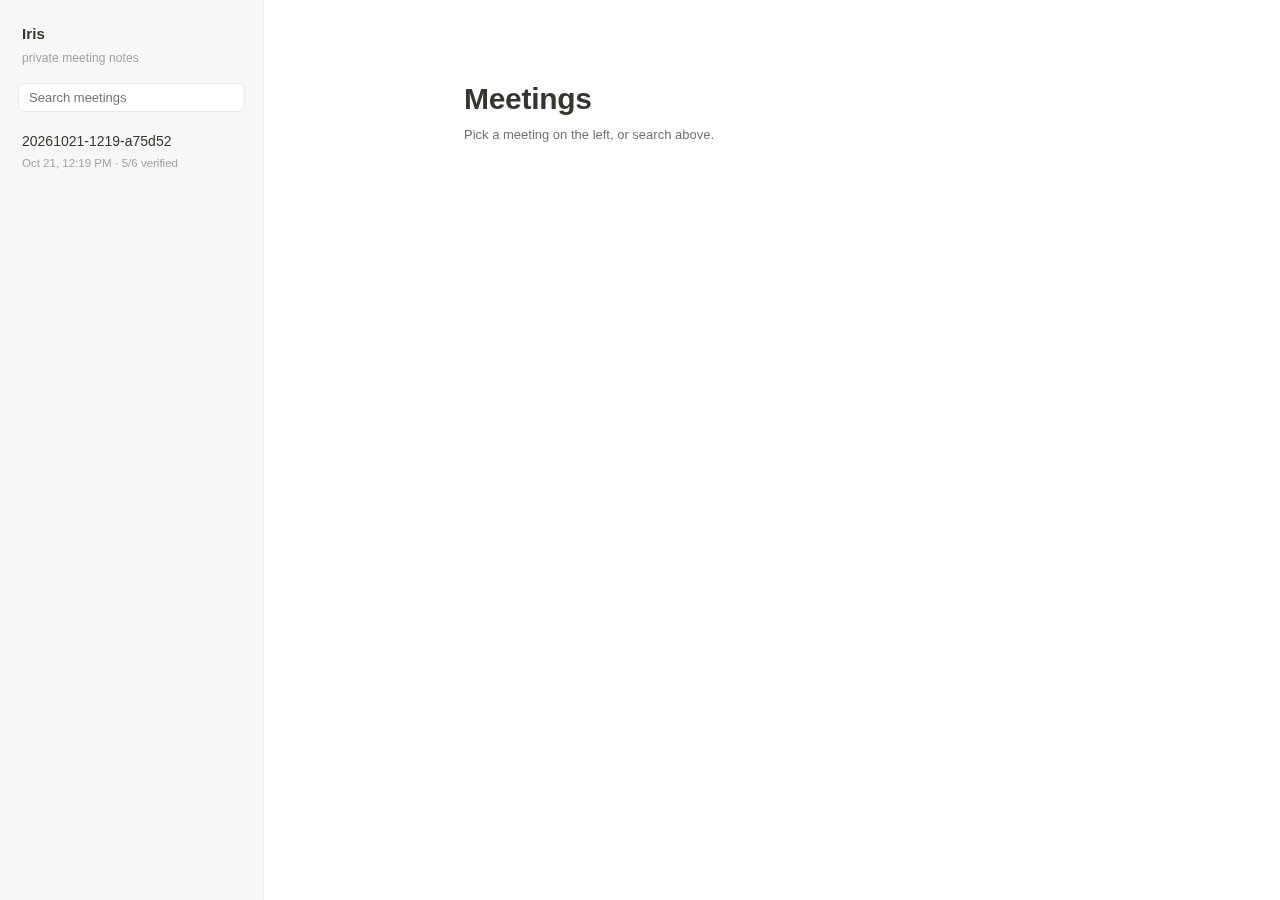
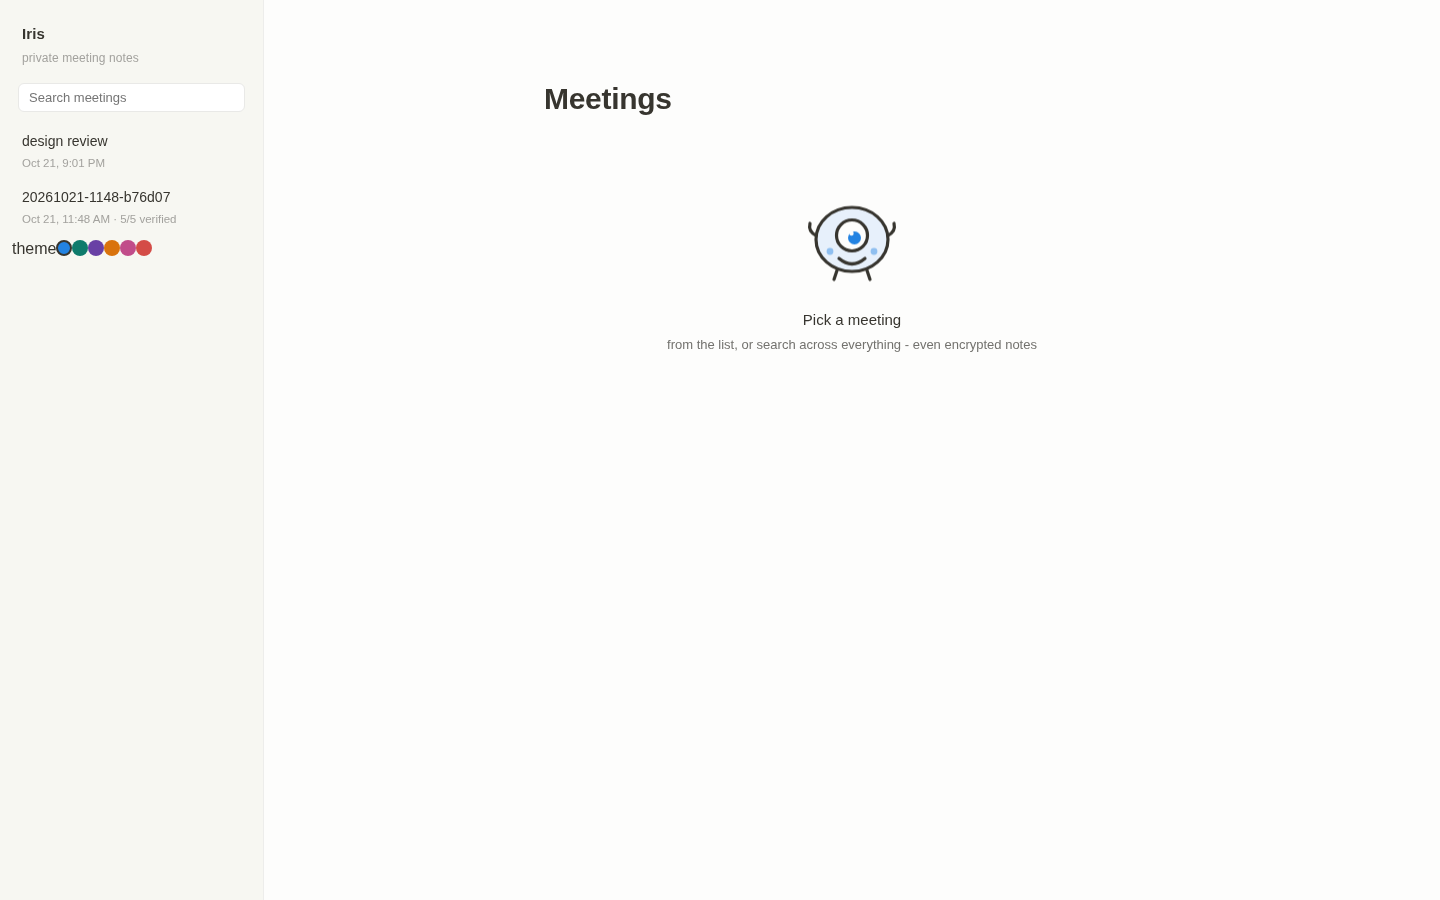
Sidebar: theme picker pinned as a proper footer (small type, flex column, nav scrolls above it)

diff --git a/iris/webui.py b/iris/webui.py
@@ -38,8 +38,10 @@ PAGE = """<!doctype html><meta charset=utf-8><meta name=viewport content="width=
   [data-theme=pink]{ --accent:#e08ab5; --accent-soft:#33222b; }
   [data-theme=red]{ --accent:#e88a86; --accent-soft:#332020; }
 }
-.themes{display:flex;gap:10px;padding:12px 10px 8px;align-items:center;justify-content:center;margin-top:10px;border-top:1px solid var(--border-soft)}
-.themes .lbl{font-size:11px;color:var(--faint)}
+.themes{flex:none;display:flex;gap:9px;padding:10px 10px 6px;align-items:center;
+  margin-top:12px;border-top:1px solid var(--border-soft)}
+.themes .lbl{font-size:11px;color:var(--faint);flex:1}
+.dot{width:14px;height:14px}
 .dot{width:16px;height:16px;border-radius:50%;border:2px solid transparent;cursor:pointer;padding:0}
 .dot.sel{border-color:var(--text)}
 .dot[data-t=""]{background:#2383e2}.dot[data-t=green]{background:#0f7b6c}
@@ -70,7 +72,9 @@ body{margin:0;font:16px/1.65 -apple-system,BlinkMacSystemFont,"SF Pro Text","Seg
   color:var(--text);background:var(--bg);-webkit-font-smoothing:antialiased}
 .layout{display:flex;min-height:100vh}
 .sidebar{width:264px;flex:none;background:var(--side);border-right:1px solid var(--border-soft);
-  padding:18px 12px;position:sticky;top:0;height:100vh;overflow:auto}
+  padding:18px 12px 10px;position:sticky;top:0;height:100vh;overflow:auto;
+  display:flex;flex-direction:column}
+.nav{flex:1 1 auto;min-height:0}
 .brand{font-weight:600;font-size:15px;padding:4px 10px 14px;letter-spacing:.1px}
 .brand span{color:var(--faint);font-weight:400;font-size:12px;display:block;margin-top:2px}
 .searchbox{margin:0 6px 12px}
@@ -262,10 +266,12 @@ def sidebar(store_dir: str, active: str | None) -> str:
             'if(el)el.textContent=t[i]})()</script>'
             '<form class=searchbox method=get action="/search">'
             '<input name=q placeholder="Search meetings"></form>'
+            + '<div class=nav">'
             + ("".join(items) or '<div class=empty>' + mascot(72, "sleep")
                + '<div class=t>No meetings yet</div>'
                + '<div class=s>record one and Iris will keep it safe</div></div>')
-            + '<div class=themes"><span class=lbl>theme</span>'
+            + '</div>'
+            + '<div class=themes"><span class=lbl>Theme</span>'
             + ''.join(f'<button class=dot data-t="{t}" title="{t or "blue"}" '
                       f'onclick="pickTheme(\'{t}\',this)"></button>'
                       for t in ("", "green", "purple", "orange", "pink", "red"))
